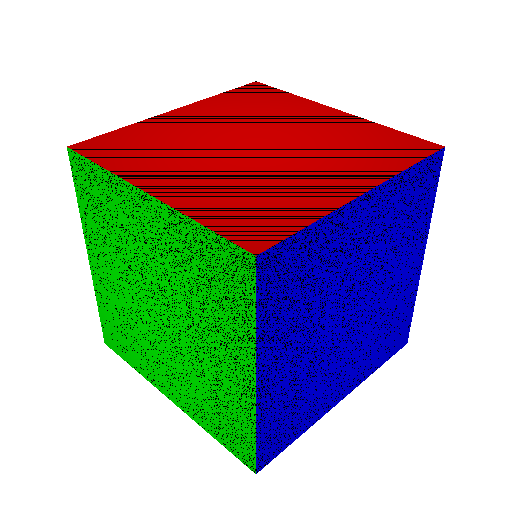
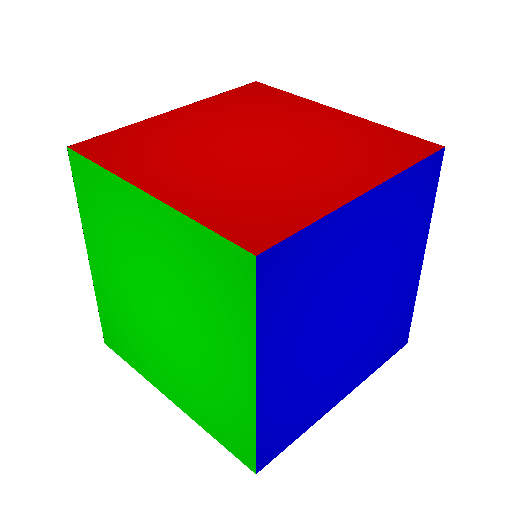
bug fix

diff --git a/comp557F18/comp557/a4/Box.java b/comp557F18/comp557/a4/Box.java
@@ -100,26 +100,30 @@ public class Box extends Intersectable {
     		}
     		//System.out.println(tmin+ ", " + tmax);
     		//System.out.println(p);
-    		if(p.x==xMin) {
+    		if(p.x<xMin+0.001&&p.x>xMin-0.001) {
     			result.n = new Vector3d(-1,0,0);
     		}
-    		else if(p.x==xMax) {
+    		else if(p.x<xMax+0.00001&&p.x>xMax-0.00001) {
     			result.n = new Vector3d(1,0,0);
     		}
-    		else if(p.y == yMin) {
+    		else if(p.y<yMin+0.00001&&p.y>yMin-0.00001) {
     			result.n = new Vector3d(0,-1,0);
     		}
-    		else if(p.y == yMax) {
+    		else if(p.y < yMax+0.00001&&p.y>yMax-0.00001) {
     			result.n = new Vector3d(0,1,0);
     		}
-    		else if(p.z == zMin) {
+    		else if(p.z < zMin+0.00001&&p.z>yMin-0.00001) {
     			result.n = new Vector3d(0,0,-1);
     		}
-    		else if(p.z == zMax) {
+    		else if(p.z < zMax+0.00001&&p.z>zMax-0.00001) {
     			result.n = new Vector3d(0,0,1);
     		}
-    		System.out.println(result.n);
+    		//System.out.println(result.n);
     		//System.out.println(material.diffuse);
+    		if(result.n.x==0&&result.n.y==0&&result.n.z==0&&result.material!=null) {
+    			//Stop here;
+    			System.out.println("Was here");
+    		}
 		}
 		
 		
